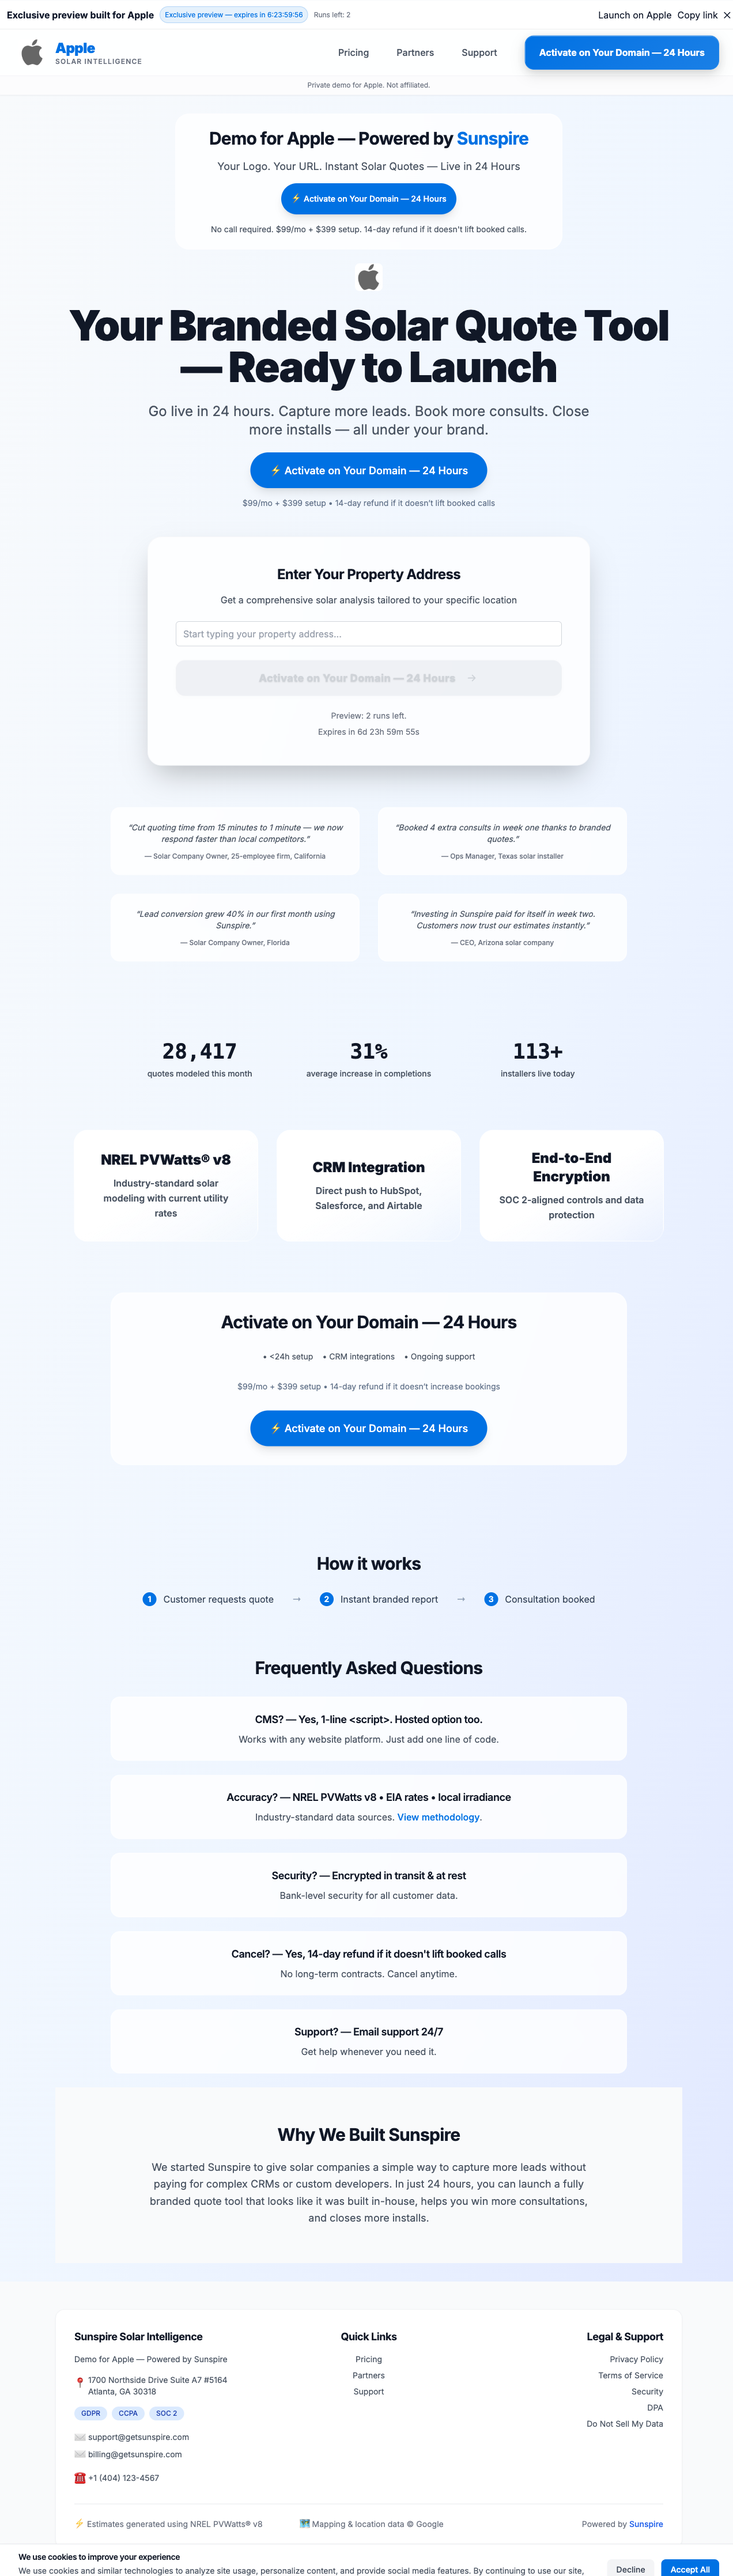
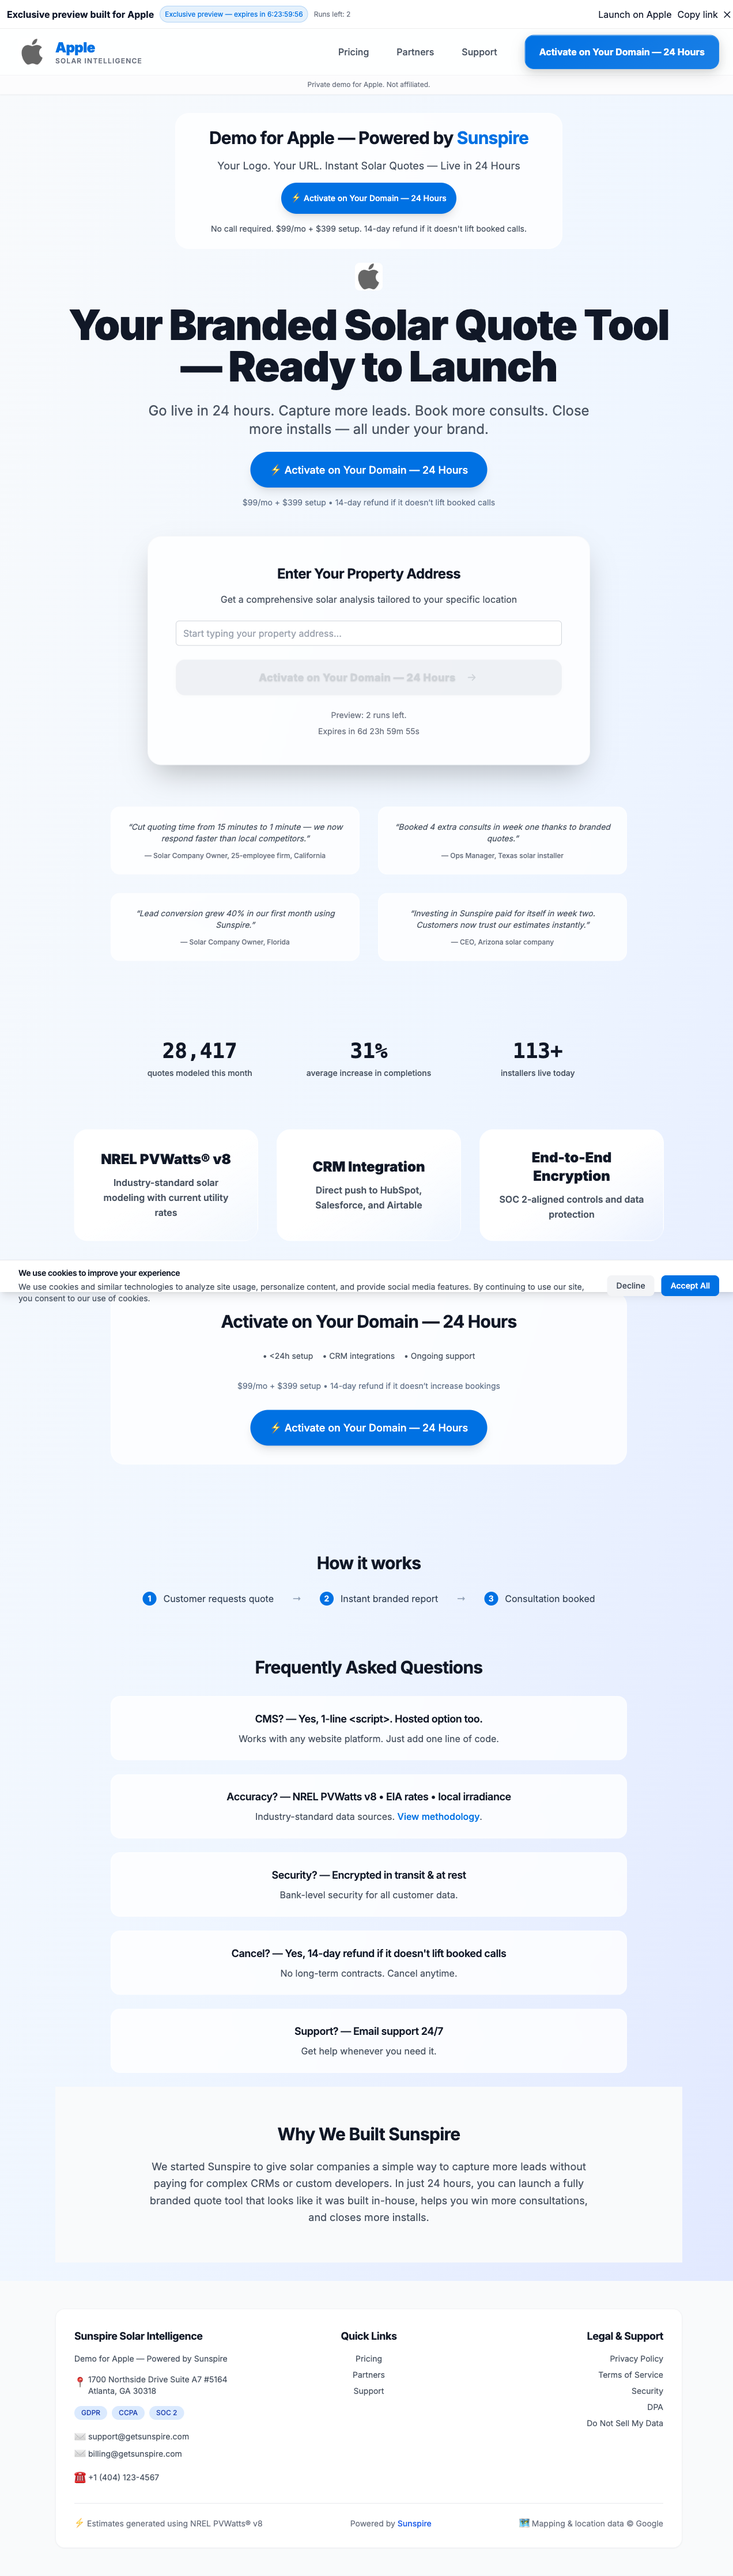
Swap footer bottom layout: Powered by Sunspire in center, Google attribution on right

diff --git a/components/Footer.tsx b/components/Footer.tsx
@@ -75,18 +75,16 @@ export default function Footer() {
           {/* Hairline divider */}
           <div className="border-t border-gray-200 mt-8 pt-6">
             <div className="flex flex-col md:flex-row justify-between items-center space-y-4 md:space-y-0">
-              <div className="flex flex-col md:flex-row items-center space-y-2 md:space-y-0 md:space-x-16 text-sm text-gray-500">
-                <div className="flex items-center space-x-2">
-                  <span>⚡</span>
-                  <span>Estimates generated using NREL PVWatts® v8</span>
-                </div>
-                <div className="flex items-center space-x-2">
-                  <span>🗺</span>
-                  <span>Mapping & location data © Google</span>
-                </div>
+              <div className="flex items-center space-x-2 text-sm text-gray-500">
+                <span>⚡</span>
+                <span>Estimates generated using NREL PVWatts® v8</span>
               </div>
-              <div className="text-sm text-gray-500 text-right">
+              <div className="text-sm text-gray-500 text-center">
                 Powered by <a href="#" className="text-blue-600 hover:text-blue-800 font-medium transition-colors duration-200">Sunspire</a>
+              </div>
+              <div className="flex items-center space-x-2 text-sm text-gray-500 text-right">
+                <span>🗺</span>
+                <span>Mapping & location data © Google</span>
               </div>
             </div>
           </div>
